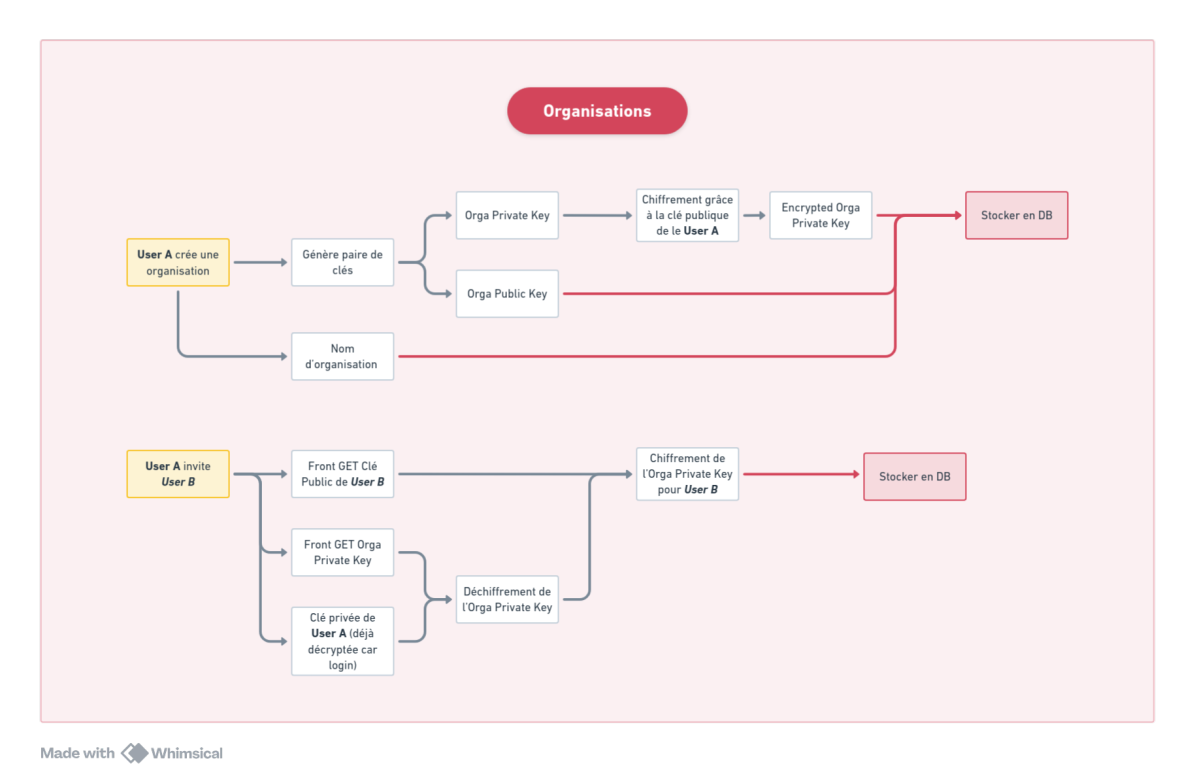
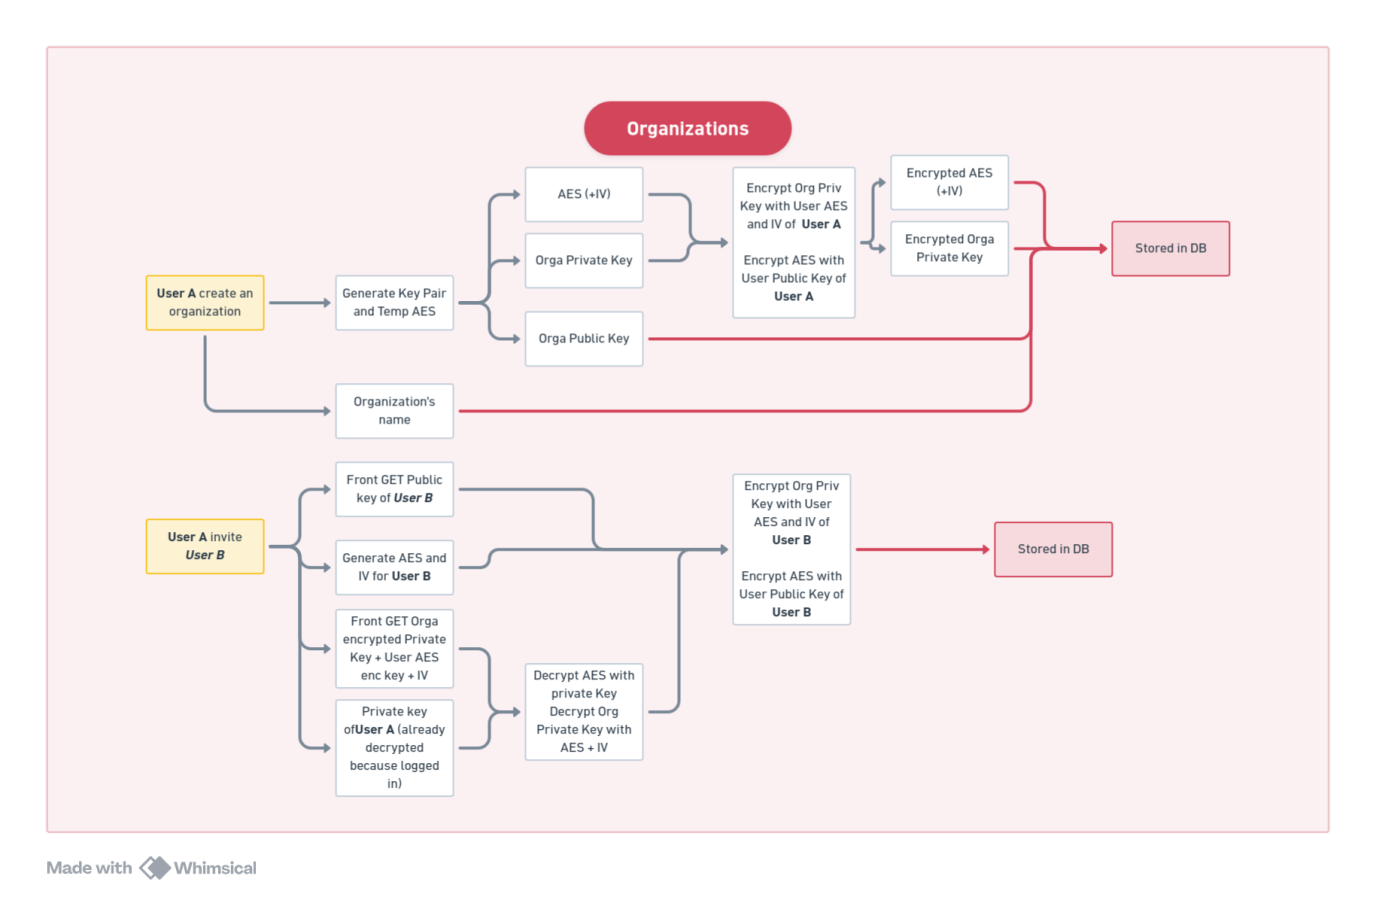
docs: translation and update of creating organization and adding member

diff --git a/docs/work.md b/docs/work.md
@@ -4,7 +4,7 @@ Stack : React (front) / Go + GORM (back) / PostgreSQL / Redis / MinIO
 
 authash == "Argon2id Stocker en db"
 
-Les JWT sont generes uniquement au register et au login. Toutes les autres requetes envoient le Access JWT dans le header `Authorization: Bearer ...`. Quand il expire, le client fait `POST /api/v1/auth/refresh` avec le Refresh JWT (cookie HttpOnly) pour en obtenir un nouveau. C'est tout.
+Les JWT sont generes uniquement au register et au login. Toutes les autres requetes envoient le Access JWT dans le header `Authorization: Bearer ...`. Quand il expire, le client fait `POST /api/auth/refresh` avec le Refresh JWT (cookie HttpOnly) pour en obtenir un nouveau. C'est tout.
 
 ---
 
@@ -16,7 +16,7 @@ Les JWT sont generes uniquement au register et au login. Toutes les autres reque
    - Genere une paire RSA (pub/priv)
    - Chiffre la privkey avec la KEK (AES-GCM) -> EncryptedPrivKey + IV
    - Calcule AuthHash = HMAC-SHA256(KEK, "ft_box_auth")
-3. `POST /api/v1/auth/register` -> envoie email, salt, AuthHash, pubkey, EncryptedPrivKey, IV
+3. `POST /api/auth/register` -> envoie email, salt, AuthHash, pubkey, EncryptedPrivKey, IV
    - Le serveur voit jamais le mdp ni la KEK (zero-knowledge)
 4. Backend Go :
    - Hash le AuthHash avec Argon2id
@@ -36,7 +36,7 @@ Les JWT sont generes uniquement au register et au login. Toutes les autres reque
 ### Phase 1 - Recup du salt
 
 - User tape email + mdp
-- `GET /api/v1/auth/salt?email=[email redacted]`
+- `GET /api/auth/salt?email=[email redacted]`
 - Le back renvoie le salt (base64) si le user existe
 
 ### Phase 2 - Calculs coté client
@@ -46,7 +46,7 @@ Les JWT sont generes uniquement au register et au login. Toutes les autres reque
 
 ### Phase 3 - Requete de login
 
-- `POST /api/v1/auth/login`
+- `POST /api/auth/login`
   ```json
   { "email": "[email redacted]", "auth_hash": "<base64>" }
   ```
@@ -60,43 +60,58 @@ Les JWT sont generes uniquement au register et au login. Toutes les autres reque
 ### Phase 4 - Dechiffrement local
 
 - Le client utilise la KEK (encore en RAM) + IV pour dechiffrer la privkey (AES-GCM)
-- Maintenant le client a sa PrivKey RSA en clair en RAM
+- Maintenant le client a sa PubKey et PrivKey RSA dans IndexedDB
 - On ecrase la KEK direct de la memoire
 - Ouverture websocket + redirect `/dashboard`
 
 ![Logo](images/project-login.webp)
 ---
 
-## 3. Creation d'une orga
-
-1. User clique "Creer l'org" (ex: 42_Projects)
-2. Client genere une OrgKey aleatoire (AES-GCM 256) via Web Crypto
-3. Client génère une clé AES-GCM 256 temporaire
-4. Chiffre Org_Priv_Key avec la clé AES (AES-GCM) -> encrypted_org_private_key + iv
-5. Chiffre la clé AES avec la clé publique RSA du user (RSA-OAEP) -> encrypted_aes_key
-6. `POST /api/orgs` avec le nom, org_public_key, encrypted_org_private_key, encrypted_aes_key, iv
-5. Backend (transaction PG) :
-   - Cree l'orga (UUID)
-   - Ajoute le createur en tant qu'admin
-   - Stocke encrypted_org_private_key, encrypted_aes_key, iv dans `org_members`
-   - Le serveur voit qu'un blob opaque, il peut rien en faire
-6. Publie un event `org_created` sur Redis -> push via WS aux autres sessions du user
-
+Voici une version traduite en anglais, enrichie avec des termes techniques plus précis, une meilleure structure et des corrections sur la logique cryptographique pour la rendre parfaitement professionnelle et claire (par exemple, la distinction et la cohérence entre `OrgKey`, `Org_Priv_Key` et les paires de clés asymétriques).
 
 ---
 
-## 4. Invitation d'un membre
+D'accord, je vois beaucoup mieux ! Ton code montre que la logique est en réalité **plus simple et plus propre** que ce qui était décrit au début.
 
-Cas : l'admin invite Alice dans l'orga.
+Tu n'as pas trois types de clés (OrgKey, Org_Priv_Key, et une clé AES), tu en as deux :
 
-1. Le client de l'admin recuper la clé privée de l'orga et l'AES encrypté
-2. L'admin demande la PubKey RSA d'Alice au serveur
-2. L'admin dechiffre l'OrgKey (decrypt AES avec private key et decrypt org private key avec AES et IV)
-3. L'admin generer une aes et un iv pour l'invité qui serviront a re-chiffre l'OrgKey avec.
-4. L'admin chiffre AES avec la public key du member
-4. `POST /api/v1/orgs/{id}/members` avec ce nouveau blob
-5. Le serveur stocke ce blob dans `enc_org_priv_key` dans la table org_members pour Alice
-6. Quand Alice se connecte, elle recup le blob et le dechiffre avec sa privkey RSA -> OrgKey en clair en RAM
+1. Une **paire de clés asymétriques pour l'organisation** (RSA).
+2. Une **clé AES-GCM temporaire** qui sert uniquement à chiffrer la clé privée de l'org, puis qui est elle-même "wrappée" (chiffrée) par la clé publique du user.
+
+Voici la documentation technique corrigée et parfaitement alignée avec ton implémentation TypeScript (Web Crypto API). J'ai aussi corrigé la section "Invitation" pour qu'elle suive exactement cette même logique.
+
+---
+
+## 3. Organization Creation
+
+1. **Trigger:** User clicks "Create Org" (e.g., `42_Projects`).
+2. **Client-Side Generation:** * Generates an asymmetric RSA Organization Key Pair via the *Web Crypto API*.
+   * Generates a temporary symmetric key (`AES-GCM 256`).
+3. **Client-Side Encryption:**
+   * Encrypts the `Org_Private_Key` with the temporary AES key $\rightarrow$ `encrypted_org_private_key` + `iv`.
+   * Encrypts ("wraps") the temporary AES key with the User's Public RSA Key (`RSA-OAEP`) $\rightarrow$ `encrypted_aes_key`.
+4. **API Request:** `POST /api/orgs` with `name`, `public_key`, `enc_org_priv_key`, `enc_aes_key`, and `iv` (all Base64-encoded).
+5. **Backend Processing (PG Transaction):**
+   * Provisions the organization (UUID generation).
+   * Assigns the creator as the organization **Admin**.
+   * Persists the encrypted cryptographic envelope inside the `org_members` table.
+   * *Zero-Knowledge Guarantee:* The server only processes opaque BLOBs and cannot access plaintext keys.
+6. **Real-Time Sync:** Publishes an `org_created` event to Redis $\rightarrow$ pushed via WebSockets to the user's other active sessions.
+
+---
+
+## 4. Member Invitation Flow
+
+**Scenario:** The Admin invites Alice into the organization.
+
+1. **Data Fetching:** Admin's client fetches their own encrypted organization envelope and requests Alice's Public RSA Key from the server.
+2. **Client-Side Decryption:** Admin decrypts the `encrypted_aes_key` using their private RSA key, then decrypts the `encrypted_org_private_key` to temporarily recover the organization's plaintext private key in memory (RAM).
+3. **Re-Encryption for the Invitee:** * Admin generates a brand-new temporary AES key and a unique `iv` specifically for Alice.
+   * Encrypts the organization's private key with this new AES key.
+   * Encrypts ("wraps") this new AES key with **Alice's Public RSA Key**.
+4. **API Request:** `POST /api/orgs/{id}/members` containing Alice's user ID and her targeted cryptographic payload.
+5. **Persistence:** Server stores this payload into the `enc_org_priv_key` column of the `org_members` table for Alice.
+6. **Consumption:** Upon login/access, Alice's client fetches her specific blob, decrypts it using her private RSA key, and mounts the organization's private key into volatile memory (RAM) for authorized operations.
 
 
 ---
@@ -113,7 +128,7 @@ Probleme : un fichier de 2 Go ca tient pas en RAM dans un Uint8Array, le tab cra
 
 ### Phase 2 - Negociation de l'upload (Go)
 
-1. `POST /api/v1/files/upload-url` -> "je veux upload un fichier de X octets dans le dossier Y"
+1. `POST /api/files/upload-url` -> "je veux upload un fichier de X octets dans le dossier Y"
 2. Backend verifie le JWT, check le quota dispo
 3. Genere une Presigned URL PUT via le SDK MinIO (valable ~15 min)
 4. Renvoie l'URL au client
@@ -129,7 +144,7 @@ Probleme : un fichier de 2 Go ca tient pas en RAM dans un Uint8Array, le tab cra
 2. Key wrapping :
    - Fichier perso -> chiffre la DEK avec la PubKey RSA du user
    - Fichier d'orga -> chiffre la DEK avec l'OrgKey (deja dechiffree en RAM)
-3. `POST /api/v1/files/finalize`
+3. `POST /api/files/finalize`
    ```json
    {
      "object_id": "<UUID_Minio>",
@@ -151,7 +166,7 @@ Le miroir de l'upload : recup le fichier chiffre, recup la cle, dechiffre tout e
 
 ### Phase 1 - Demande de telechargement (React -> Go)
 
-1. `GET /api/v1/files/{file_id}/download`
+1. `GET /api/files/{file_id}/download`
 2. Backend verifie les droits
 3. Genere une Presigned URL GET (MinIO)
 4. Renvoie l'URL + encrypted_dek + IV + filename
@@ -175,7 +190,7 @@ Le miroir de l'upload : recup le fichier chiffre, recup la cle, dechiffre tout e
 
 ### Phase 1 - Requete de suppression (React -> Go)
 
-1. `DELETE /api/v1/files/{file_id}`
+1. `DELETE /api/files/{file_id}`
 2. Backend verifie le JWT + les droits  :
    - Fichier perso -> seul le owner peut supprimer
    - Fichier d'orga -> faut etre admin ou avoir la permission delete
@@ -200,7 +215,7 @@ Roles possibles : admin, member (extensible plus tard si besoin).
 
 ### Phase 1 - Requete (React -> Go)
 
-1. `PATCH /api/v1/orgs/{org_id}/members/{user_id}`
+1. `PATCH /api/orgs/{org_id}/members/{user_id}`
    ```json
    { "role": "admin" }
    ```
@@ -224,7 +239,7 @@ Ce qui se passe quand le user arrive sur `/dashboard` apres le login.
 
 ### Phase 1 - Recup de l'arborescence (React -> Go)
 
-1. `GET /api/v1/folders?parent_id=root` (ou sans param = racine)
+1. `GET /api/folders?parent_id=root` (ou sans param = racine)
 2. Backend recup les dossiers + fichiers du user a la racine :
    - Query sur `folders` WHERE `owner_user_id = $1 AND parent_id IS NULL AND org_id IS NULL`
    - Query sur `files` WHERE `owner_user_id = $1 AND folder_id IS NULL AND org_id IS NULL`
@@ -232,9 +247,9 @@ Ce qui se passe quand le user arrive sur `/dashboard` apres le login.
 
 ### Phase 2 - Navigation dans les dossiers
 
-- User clique sur un dossier -> `GET /api/v1/folders/{folder_id}/contents`
+- User clique sur un dossier -> `GET /api/folders/{folder_id}/contents`
 - Backend renvoie les sous-dossiers + fichiers de ce dossier
-- Meme requete pour les fichiers d'orga : `GET /api/v1/orgs/{org_id}/folders/{folder_id}/contents`
+- Meme requete pour les fichiers d'orga : `GET /api/orgs/{org_id}/folders/{folder_id}/contents`
   - La le backend check que le user est bien membre de l'orga avant de renvoyer quoi que ce soit
 
 ### Phase 3 - Affichage
@@ -244,11 +259,11 @@ Ce qui se passe quand le user arrive sur `/dashboard` apres le login.
 - Breadcrumb pour la navigation (root > dossier1 > sous-dossier)
 - Sidebar avec :
   - "Mes fichiers" (espace perso)
-  - Liste des orgas du user (recup via `GET /api/v1/orgs`)
+  - Liste des orgas du user (recup via `GET /api/orgs`)
 
 ### Orgas dans le dashboard
 
-- `GET /api/v1/orgs` -> liste les orgas dont le user est membre
+- `GET /api/orgs` -> liste les orgas dont le user est membre
 - Quand le user clique sur une orga, on charge l'arborescence de l'orga de la meme facon
 - Avant d'afficher les fichiers d'orga, le client doit avoir l'OrgKey en RAM :
   - Recup `enc_org_priv_key` depuis `org_members`
@@ -261,7 +276,7 @@ Ce qui se passe quand le user arrive sur `/dashboard` apres le login.
 
 ### Storage usage bar
 
-1. `GET /api/v1/users/me` -> renvoie les infos du user dont `used_space` et `max_space`
+1. `GET /api/users/me` -> renvoie les infos du user dont `used_space` et `max_space`
 2. Affichage d'une barre de progression :
    - `used_space / max_space * 100` = pourcentage utilise
    - Ex : "2.3 GB / 5 GB utilises"
@@ -285,7 +300,7 @@ Ce qui se passe quand le user arrive sur `/dashboard` apres le login.
 
 1. User clique "Supprimer mon compte" sur la page profil
 2. Le client demande le mdp pour confirmer (re-derive la KEK + AuthHash comme au login)
-3. `DELETE /api/v1/users/me` avec `{ "auth_hash": "<base64>" }`
+3. `DELETE /api/users/me` avec `{ "auth_hash": "<base64>" }`
 
 ### Phase 2 - Backend (Go)
 
@@ -308,9 +323,9 @@ Note : les fichiers d'orga restent intacts, c'est l'orga qui les possede. On sup
 
 ## 12. Logout
 
-1. `POST /api/v1/auth/logout`
+1. `POST /api/auth/logout`
 2. Backend supprime le refresh token (DB ou Redis) + clear le cookie HttpOnly
-3. Cote client : ecrase la PrivKey RSA de la RAM, vide les OrgKeys, ferme la WS
+3. Cote client : supprime la PubKey et la PrivKey RSA de IndexedDB, ferme la WS
 4. Redirect vers `/login`
 
 
@@ -322,11 +337,11 @@ Basee sur TOTP (Time-based One-Time Password) — compatible Google Authenticato
 
 ### Activation (page profil)
 
-1. `POST /api/v1/auth/2fa/enable`
+1. `POST /api/auth/2fa/enable`
 2. Backend genere un secret TOTP (base32, 160 bits) + le stocke en DB (chiffre ou en clair, le user est deja authentifie)
 3. Renvoie le secret sous forme d'URI `otpauth://` + QR code (ou juste l'URI, le front genere le QR)
 4. User scan le QR avec son app
-5. User entre le code a 6 chiffres pour confirmer -> `POST /api/v1/auth/2fa/verify` avec `{ "code": "123456" }`
+5. User entre le code a 6 chiffres pour confirmer -> `POST /api/auth/2fa/verify` avec `{ "code": "123456" }`
 6. Backend valide le code TOTP, si OK -> marque `totp_enabled = true` en DB
 
 
@@ -336,14 +351,14 @@ Basee sur TOTP (Time-based One-Time Password) — compatible Google Authenticato
 - Si `totp_enabled = true`, le backend repond 200 avec `{ "requires_2fa": true, "tmp_token": "<token>" }`
 - Le `tmp_token` est un token court (expire en 5 min), il sert juste a lier la session 2FA
 - Le client affiche un champ pour entrer le code TOTP
-- `POST /api/v1/auth/2fa/validate` avec `{ "tmp_token": "...", "code": "123456" }`
+- `POST /api/auth/2fa/validate` avec `{ "tmp_token": "...", "code": "123456" }`
 - Backend valide le code TOTP + le tmp_token, si OK -> genere les vrais JWT (access + refresh cookie)
 - A partir de la, le reste du login continue normalement (recup EncryptedPrivKey, dechiffrement, WS, etc.)
 
 
 ### Desactivation
 
-1. `POST /api/v1/auth/2fa/disable` avec `{ "code": "123456" }` (faut prouver qu'on a encore l'app)
+1. `POST /api/auth/2fa/disable` avec `{ "code": "123456" }` (faut prouver qu'on a encore l'app)
 2. Backend valide le code, passe `totp_enabled = false`, supprime le secret + les recovery codes
 
 ### Ajout en DB
@@ -374,7 +389,7 @@ Changer le mdp c'est plus chiant  en zero-knowledge : faut re-wrapper toutes les
    - Derive la nouvelle KEK (PBKDF2 + nouveau mdp + nouveau salt)
    - Re-chiffre la PrivKey avec la nouvelle KEK (AES-GCM) -> nouveau EncryptedPrivKey + nouveau IV
    - Calcule le nouveau AuthHash = HMAC-SHA256(nouvelle KEK, "ft_box_auth")
-3. `PUT /api/v1/auth/password`
+3. `PUT /api/auth/password`
    ```json
    {
      "old_auth_hash": "<base64>",
@@ -398,10 +413,10 @@ Note : la PubKey RSA change pas, les OrgKeys changent pas. Seul le wrapping de l
 
 ## Workflows manquants (a detailler plus tard)
 
-- **Creer un dossier** : `POST /api/v1/folders` avec name + parent_id + org_id optionnel
-- **Supprimer un dossier** : `DELETE /api/v1/folders/{id}` (recursif : vider les fichiers d'abord vu le `ON DELETE RESTRICT`)
-- **Renommer fichier/dossier** : `PATCH /api/v1/files/{id}` ou `PATCH /api/v1/folders/{id}`
-- **Quitter une orga** : `DELETE /api/v1/orgs/{org_id}/members/me` (interdit si dernier admin)
-- **Supprimer une orga** : `DELETE /api/v1/orgs/{org_id}` (admin only, supprime tous les fichiers MinIO de l'orga)
+- **Creer un dossier** : `POST /api/folders` avec name + parent_id + org_id optionnel
+- **Supprimer un dossier** : `DELETE /api/folders/{id}` (recursif : vider les fichiers d'abord vu le `ON DELETE RESTRICT`)
+- **Renommer fichier/dossier** : `PATCH /api/files/{id}` ou `PATCH /api/folders/{id}`
+- **Quitter une orga** : `DELETE /api/orgs/{org_id}/members/me` (interdit si dernier admin)
+- **Supprimer une orga** : `DELETE /api/orgs/{org_id}` (admin only, supprime tous les fichiers MinIO de l'orga)
 - **Deplacer un fichier/dossier** : `PATCH` pour changer le `folder_id` ou `parent_id`
-- **Partage par lien** : generer un lien public/protege par mdp pour un fichier (faut wrapper la DEK differemment) MAYBE
+- **DELETE ACCOUNT**

diff --git a/docs/worklow-encryption.md b/docs/worklow-encryption.md
@@ -87,30 +87,71 @@ Le navigateur a été fermé. La RAM est vide. Le client ne possède plus aucune
 
 ### Organisations
 
-1. Création de l'Organisation
+#### 1 Organization Creation Workflow
 
-Lorsqu'un utilisateur (l'Admin) crée une organisation depuis le frontend React :
 
-1. **Génération des clés orga** : React génère une paire de clés RSA dédiée à l'organisation (Org_Pub_Key + Org_Priv_Key)
-2. **Chiffrement de la clé privée orga** :
-   - Génération d'une clé AES-GCM 256 temporaire
-   - Chiffrement de Org_Priv_Key avec la clé AES → encrypted_org_private_key + iv
-   - Chiffrement de la clé AES avec la clé publique RSA du user → encrypted_aes_key
-3. **Envoi au backend** : nom de l'orga, Org_Pub_Key (en clair), encrypted_org_private_key, encrypted_aes_key, iv
-4. **Le serveur** stocke ces blobs opaques — il ne peut rien déchiffrer sans la clé privée du user
+```
 
-2. L'Invitation d'un Membre
+[React Client]
+├── 1. Generates Org RSA KeyPair & Temporary AES-256 Key
+├── 2. Encrypts Org_Priv_Key with AES Key (AES-GCM)
+├── 3. Encrypts AES Key with Admin Public Key (RSA-OAEP)
+└── 4. POST /api/orgs ──> [Go / Fiber Backend] ──> [PostgreSQL]
 
-    Le frontend d'Alice(admin) télécharge la Public_Key de Bob depuis l'API Go.
+```
 
-    Le frontend d'Alice déchiffre la Encrypted_Org_Priv_Key (qu'elle re-déchiffre via sa propre clé privée). L'Org_Priv_Key est maintenant en clair dans la RAM d'Alice.
+1. **Trigger & Primitives Generation:**
+   The user initiates the creation sequence. The React frontend uses the Web Crypto API to generate:
+   * **Organization Identity:** An asymmetric RSA key pair (`Org_Pub_Key` and `Org_Priv_Key`).
+   * **Transient Wrapping Key:** A temporary symmetric `AES-GCM 256` key.
 
-    Alice chiffre cette Org_Priv_Key avec la Public_Key de Bob.
+2. **Symmetric Layer (Private Key Protection):**
+   The client encrypts the organization's private key using the transient AES key:
+   $$\text{enc\_org\_priv\_key} = \text{Encrypt}_{\text{AES-GCM}}(\text{Org\_Priv\_Key}, \text{AES\_Key})$$
+   This outputs the `enc_org_priv_key` binary payload along with its unique Initialization Vector (`iv`).
 
-    Alice envoie ce nouveau blob au backend  Fiber l'insère dans la base de données. Bob possède désormais un accès mathématique à l'organisation. dechiffre grace a la private key de lui meme
+3. **Asymmetric Layer (Key Encapsulation):**
+   The client retrieves the Admin's personal public RSA key from the session. The transient AES key is exported to raw bytes and encrypted:
+   $$\text{enc\_aes\_key} = \text{Encrypt}_{\text{RSA-OAEP}}(\text{AES\_Key}_{\text{raw}}, \text{Admin\_Pub\_Key})$$
+
+4. **API ingestion & Persistence:**
+   All binary buffers are encoded to Base64 strings. The client performs a `POST /api/orgs` request.
+   The **Go / Fiber** backend opens a PostgreSQL transaction to:
+   * Create the organization row (assigning a standard `UUID`).
+   * Add the creator as an **Admin** in the `org_members` junction table.
+   * Store `enc_org_priv_key`, `enc_aes_key`, and `iv` directly in the admin's relation row.
+   * *Zero-Knowledge Architecture:* The server has no access to plaintext keys and only stores opaque blocks.
+
+5. **Real-Time Notification:** The backend publishes an `org_created` event to **Redis**, broadcasting a WebSocket notification to the user's other active devices to update the UI reactively.
+
+---
+
+#### 2 Member Invitation Flow
+
+**Scenario:** Alice (Admin) invites Bob (New Member) into the organization.
+
+
+
+1. **Public Key Retrieval:**
+   Alice's React client requests Bob's verified asymmetric `Bob_Pub_Key` from the Go API.
+
+2. **Decryption Phase (Admin Client-Side RAM):**
+   Alice's client downloads her own organization cryptographic assets. It decrypts `enc_aes_key` using Alice's hardware/browser-bound private RSA key, then uses the recovered AES key and `iv` to decrypt `enc_org_priv_key`.
+   *The `Org_Priv_Key` is now available as a plaintext primitive inside Alice's client volatile memory (RAM).*
+
+3. **Secure Re-Wrapping for the Invitee:**
+   To securely pass the key to Bob without the server intercepting it, Alice's client performs a new Key Encapsulation Mechanism (KEM):
+   * Generates a **brand new temporary symmetric key** (`Bob_Temp_AES_Key`) and a fresh `iv`.
+   * Encrypts the `Org_Priv_Key` with this new symmetric key.
+   * Encrypts ("wraps") this new symmetric key using **Bob's Public Key** (`Bob_Pub_Key`) via RSA-OAEP.
+
+4. **Payload Storage:**
+   Alice sends these new specific Base64 blobs to the backend via `POST /api/orgs/{id}/members`. The Fiber backend inserts this record into the `org_members` table for Bob. 
+   *Result:* Bob now has secure mathematical access to the organization. When he connects, his client will pull his specific blobs and decrypt them using his own private RSA key.
+
 ![Logo](images/organisations.webp)
 
-3. Upload et Download dans l'Organisation
+#### 3 Secure Upload & Download Flows
 
     Upload : Lorsqu'un membre upload un fichier dans l'espace de l'organisation, React génère la DEK du fichier, chiffre le fichier, puis chiffre la DEK avec la Org_Pub_Key.
 